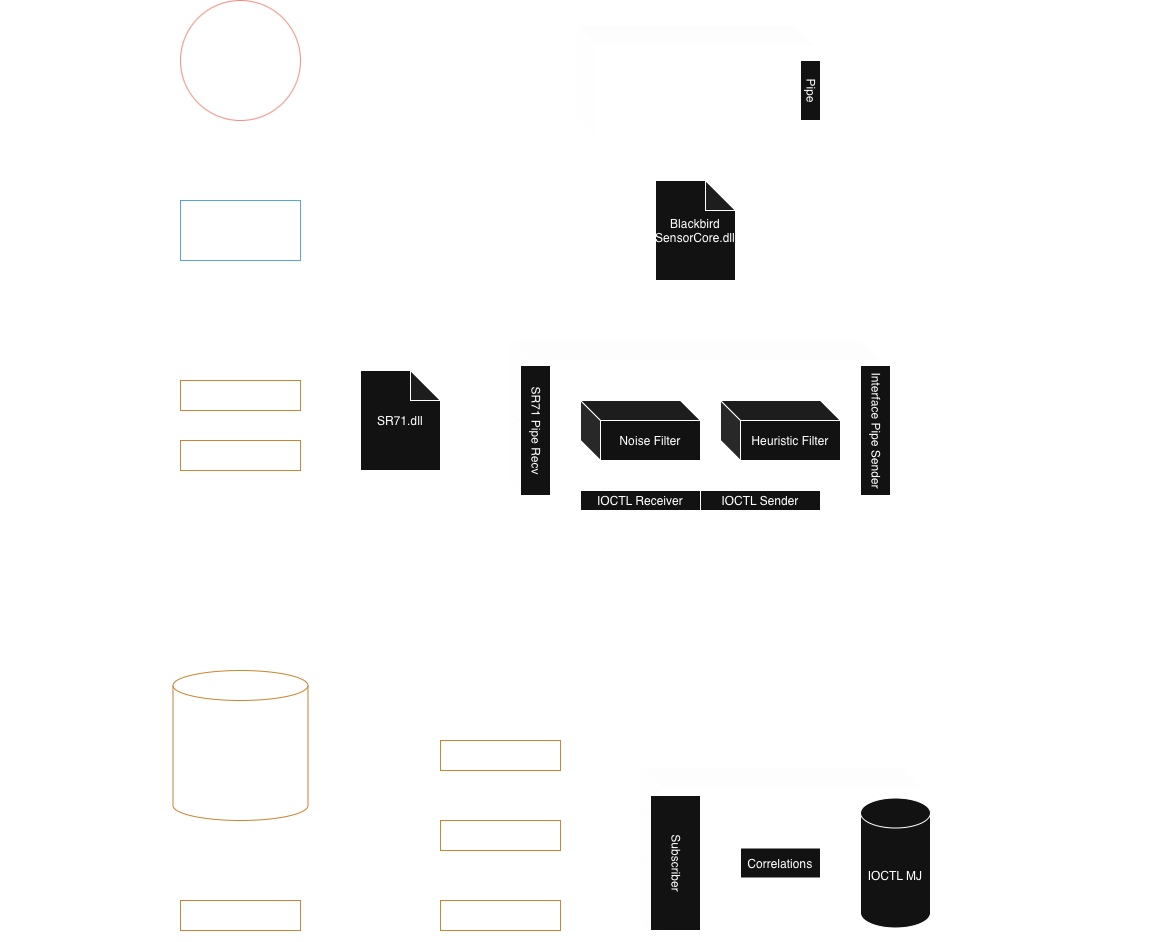
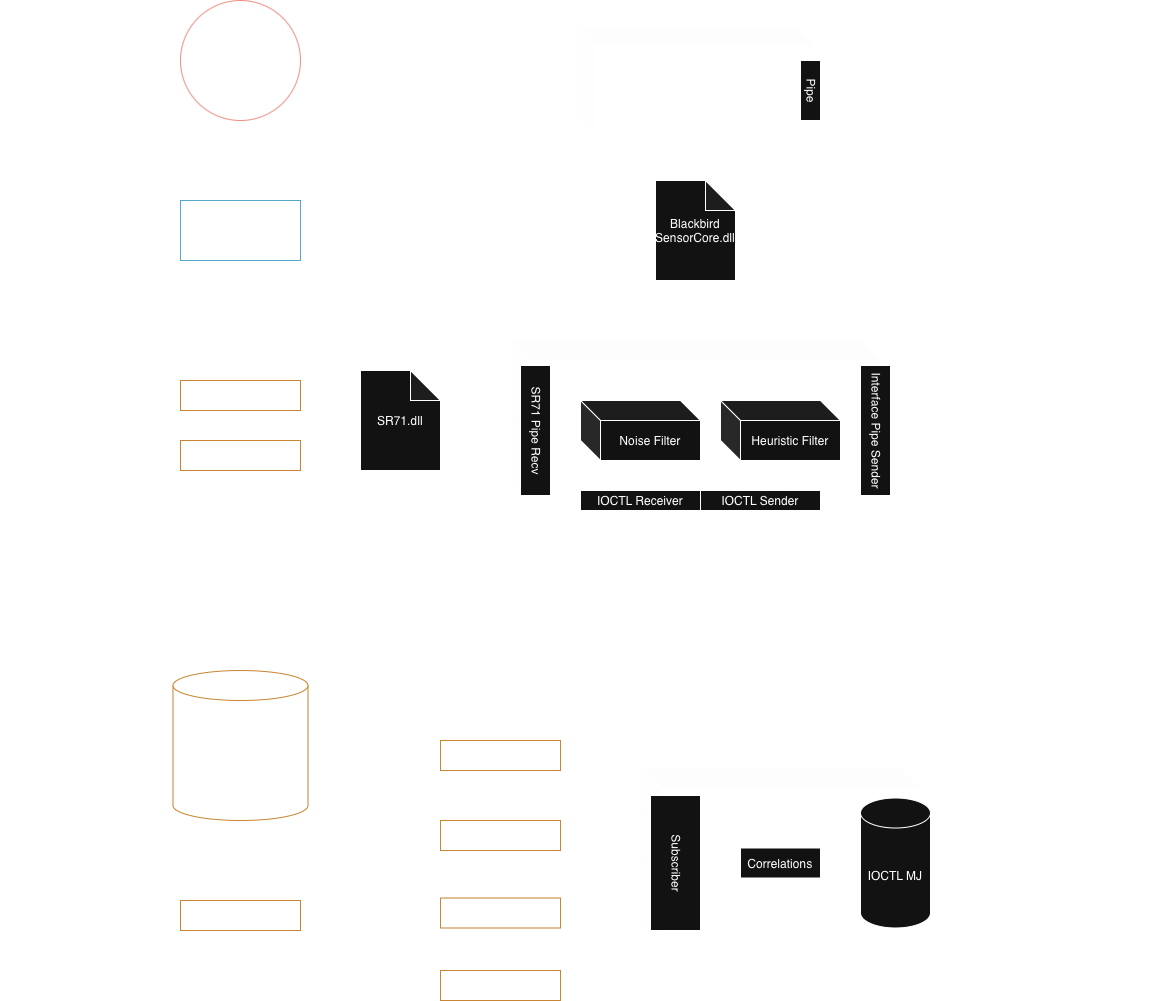
readme: updated image

diff --git a/user/controller/core/injection/Blackbird_controller_injection.c b/user/controller/core/injection/Blackbird_controller_injection.c
@@ -751,7 +751,6 @@ DWORD ControllerInjectionLaunchAndVerify(_In_ HANDLE ClientPipe,
         return err;
     }
 
-    // Honor requested launch mode exactly, including sr71.dll.
     useEarlyBirdApc = ((Flags & BLACKBIRD_IPC_USER_HOOK_FLAG_LAUNCH_EARLYBIRD_APC) != 0u);
 
     if (useEarlyBirdApc)
@@ -789,7 +788,6 @@ DWORD ControllerInjectionLaunchAndVerify(_In_ HANDLE ClientPipe,
         return err == ERROR_SUCCESS ? ERROR_GEN_FAILURE : err;
     }
 
-    // Launch success should not be hard-coupled to hook-ready timing.
     (void) ControllerWaitForHookReady(processInfo.dwProcessId);
 
     if (ControllerInjectionIsStealthHookModule(HookDllPath))

diff --git a/README.md b/README.md
@@ -17,6 +17,10 @@
   <img src="./media/MAIN_INTERFACE.png" width="980" alt="Blackbird main interface" />
 </p>
 
+<p align="center">
+  <img src="./media/BLACKBIRD_DIAGRAM.png" width="980" alt="Blackbird platform diagram" />
+</p>
+
 # BLACKBIRD
 
 Blackbird is a Malware Analysis platform for everyone from SOC's to Hobbyists. BK unifies many tools and concepts into one complete platform, and gives increased visibility and capability from traditional tools due to it leveraging its own kernel-driver. BK removes the complexities of other kernel mode tools by providing a simple install & a detailed interface to control and observe everything from.
@@ -87,10 +91,6 @@ Representative detections include:
 - registry activity
 
 For the full contract and field-level details, see [API.md](./API.md).
-
-<p align="center">
-  <img src="./media/BLACKBIRD_DIAGRAM.png" width="980" alt="Blackbird platform diagram" />
-</p>
 
 ## QUICK START
 